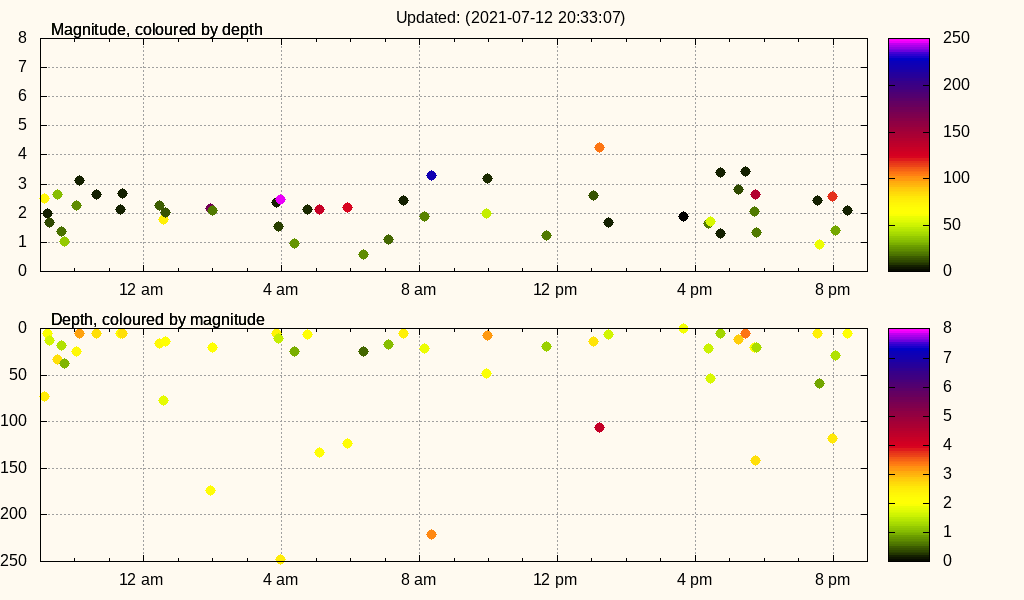
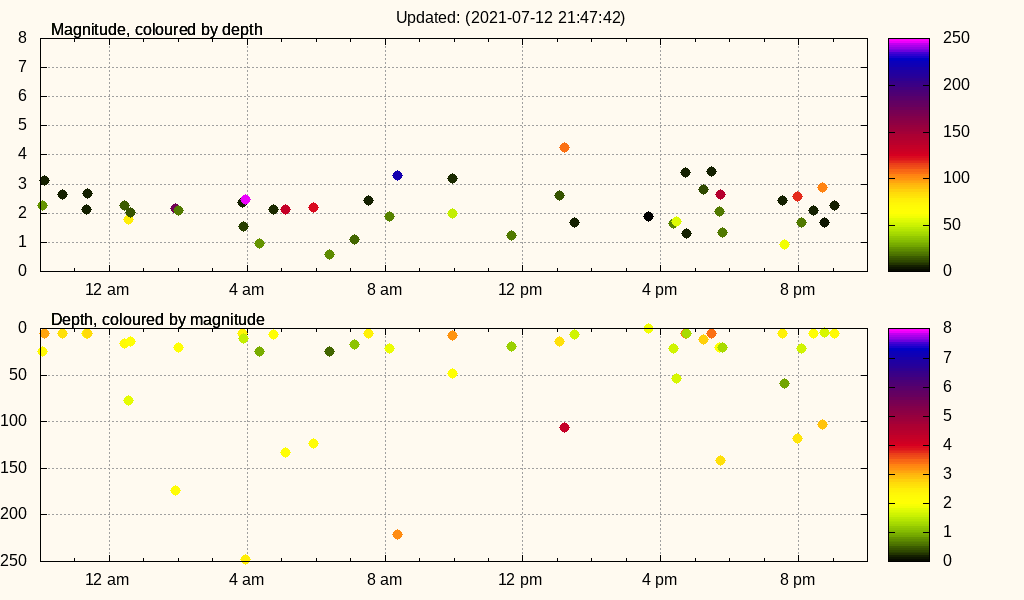
All files

diff --git a/index.html b/index.html
@@ -65,25 +65,49 @@ td.depth { text-align: right; }
 </tr>
 <tr>
 	 <td align="left">&nbsp;</td> 
-	 <td align="left">08:33:06 pm</td> 
-	 <td align="right">7:24</td> 
+	 <td align="left">09:47:41 pm</td> 
+	 <td align="right">45:14</td> 
 	 <td colspan="3">&nbsp;</td> 
 </tr>
 <tr>
 	 <td align="left">2021-07-12</td> 
+	 <td align="left">09:02:27 pm</td> 
+	 <td align="right">17:17</td> 
+	 <td class="magnitude05">2.27</td> 
+	 <td class="depth">5.00</td> 
+	 <td align="right"><a href="http://www.geonet.org.nz/quakes/region/newzealand/2021p519937" title="2021p519937" target="_blank" class="publicid">25 km north-west of Opunake</a></td> 
+</tr>
+<tr>
+	 <td align="left">&nbsp;</td> 
+	 <td align="left">08:45:10 pm</td> 
+	 <td align="right">2:44</td> 
+	 <td class="magnitude04">1.68</td> 
+	 <td class="depth">4.76</td> 
+	 <td align="right"><a href="http://www.geonet.org.nz/quakes/region/newzealand/2021p519904" title="2021p519904" target="_blank" class="publicid">5 km north-east of Lower Hutt</a></td> 
+</tr>
+<tr>
+	 <td align="left">&nbsp;</td> 
+	 <td align="left">08:42:26 pm</td> 
+	 <td align="right">16:44</td> 
+	 <td class="magnitude06">2.90</td> 
+	 <td class="depth">103.49</td> 
+	 <td align="right"><a href="http://www.geonet.org.nz/quakes/region/newzealand/2021p519899" title="2021p519899" target="_blank" class="publicid">30 km north-west of Te Anau</a></td> 
+</tr>
+<tr>
+	 <td align="left">&nbsp;</td> 
 	 <td align="left">08:25:42 pm</td> 
-	 <td align="right">21:19</td> 
+	 <td align="right">21:20</td> 
 	 <td class="magnitude05">2.09</td> 
 	 <td class="depth">4.98</td> 
 	 <td align="right"><a href="http://www.geonet.org.nz/quakes/region/newzealand/2021p519868" title="2021p519868" target="_blank" class="publicid">20 km south of Rotorua</a></td> 
 </tr>
 <tr>
 	 <td align="left">&nbsp;</td> 
-	 <td align="left">08:04:23 pm</td> 
-	 <td align="right">5:36</td> 
-	 <td class="magnitude03">1.40</td> 
-	 <td class="depth">29.06</td> 
-	 <td align="right"><a href="http://www.geonet.org.nz/quakes/region/newzealand/2021p519827" title="2021p519827" target="_blank" class="publicid">20 km north-west of Ohakune</a></td> 
+	 <td align="left">08:04:22 pm</td> 
+	 <td align="right">5:35</td> 
+	 <td class="magnitude04">1.67</td> 
+	 <td class="depth">21.17</td> 
+	 <td align="right"><a href="http://www.geonet.org.nz/quakes/region/newzealand/2021p519827" title="2021p519827" target="_blank" class="publicid">30 km north-west of Ohakune</a></td> 
 </tr>
 <tr>
 	 <td align="left">&nbsp;</td> 
@@ -408,58 +432,10 @@ td.depth { text-align: right; }
 <tr>
 	 <td align="left">&nbsp;</td> 
 	 <td align="left">10:03:11 pm</td> 
-	 <td align="right">21:51</td> 
+	 <td align="right">0</td> 
 	 <td class="magnitude05">2.28</td> 
 	 <td class="depth">24.56</td> 
 	 <td align="right"><a href="http://www.geonet.org.nz/quakes/region/newzealand/2021p517348" title="2021p517348" target="_blank" class="publicid">30 km north of Kaikoura</a></td> 
-</tr>
-<tr>
-	 <td align="left">&nbsp;</td> 
-	 <td align="left">09:41:20 pm</td> 
-	 <td align="right">4:32</td> 
-	 <td class="magnitude03">1.03</td> 
-	 <td class="depth">37.14</td> 
-	 <td align="right"><a href="http://www.geonet.org.nz/quakes/region/newzealand/2021p517307" title="2021p517307" target="_blank" class="publicid">20 km north-west of Porangahau</a></td> 
-</tr>
-<tr>
-	 <td align="left">&nbsp;</td> 
-	 <td align="left">09:36:48 pm</td> 
-	 <td align="right">7:07</td> 
-	 <td class="magnitude03">1.38</td> 
-	 <td class="depth">18.11</td> 
-	 <td align="right"><a href="http://www.geonet.org.nz/quakes/region/newzealand/2021p517298" title="2021p517298" target="_blank" class="publicid">40 km east of Wairoa</a></td> 
-</tr>
-<tr>
-	 <td align="left">&nbsp;</td> 
-	 <td align="left">09:29:41 pm</td> 
-	 <td align="right">13:28</td> 
-	 <td class="magnitude06">2.66</td> 
-	 <td class="depth">33.00</td> 
-	 <td align="right"><a href="http://www.geonet.org.nz/quakes/region/newzealand/2021p517285" title="2021p517285" target="_blank" class="publicid">135 km east of Te Araroa</a></td> 
-</tr>
-<tr>
-	 <td align="left">&nbsp;</td> 
-	 <td align="left">09:16:13 pm</td> 
-	 <td align="right">4:17</td> 
-	 <td class="magnitude04">1.68</td> 
-	 <td class="depth">12.41</td> 
-	 <td align="right"><a href="http://www.geonet.org.nz/quakes/region/newzealand/2021p517260" title="2021p517260" target="_blank" class="publicid">35 km east of Wairoa</a></td> 
-</tr>
-<tr>
-	 <td align="left">&nbsp;</td> 
-	 <td align="left">09:11:56 pm</td> 
-	 <td align="right">5:05</td> 
-	 <td class="magnitude04">1.99</td> 
-	 <td class="depth">5.00</td> 
-	 <td align="right"><a href="http://www.geonet.org.nz/quakes/region/newzealand/2021p517252" title="2021p517252" target="_blank" class="publicid">25 km south-west of Whakatane</a></td> 
-</tr>
-<tr>
-	 <td align="left">&nbsp;</td> 
-	 <td align="left">09:06:51 pm</td> 
-	 <td align="right">0</td> 
-	 <td class="magnitude05">2.51</td> 
-	 <td class="depth">72.71</td> 
-	 <td align="right"><a href="http://www.geonet.org.nz/quakes/region/newzealand/2021p517242" title="2021p517242" target="_blank" class="publicid">65 km north of French Pass</a></td> 
 </tr>
 </table>
 

diff --git a/x-image.html b/x-image.html
@@ -1,0 +1,58 @@
+<!DOCTYPE html
+	PUBLIC "-//W3C//DTD XHTML 1.0 Transitional//EN"
+	 "http://www.w3.org/TR/xhtml1/DTD/xhtml1-transitional.dtd">
+<html xmlns="http://www.w3.org/1999/xhtml" lang="en-US" xml:lang="en-US">
+<head>
+<title>Images</title>
+<meta name="author" content="Mark Munro" />
+<meta name="description" content="A 24 hour summary of earthquakes in New Zealand" />
+<meta name="keywords" content="'24 earthquake summary' earthquake 'New Zealand' Zealand geology geonet tectonic" />
+<meta name="viewport" content="width=device-width, initial-scale=1.0" />
+<style type="text/css">
+<!--/* <![CDATA[ */
+body { background: #fffaf0; font-family: sans-serif; margin: 0em 3em 0em 1em; padding: 0em 0em 0em 0em; }
+p { text-indent: 1em; }
+p:first-letter { font-family: serif; font-size: 200%; color: darkblue; }
+img { max-width: 100%; width: auto; height: auto; vertical-align: middle; border: 0; }
+table, th, td { font-size: 90%; border-collapse; margin: 0px; padding: 0px; }
+.ack {
+	font-family: serif;
+	font-style: italic;
+	font-size: small;
+	text-align: right;
+	background: lightgrey;
+	color: darkblue;
+	margin: 0px;
+	padding: 0px;
+	border: 2px darkblue inset;
+	float: left;
+}
+td.border { border: 1px #330000 dashed; }
+
+/* ]]> */-->
+</style>
+<meta http-equiv="Content-Type" content="text/html; charset=iso-8859-1" />
+</head>
+<body>
+
+<center>[ &lt;<a href="index.html" title="Main">Main</a>&gt; | &lt;<a href="image.html" title="Here">Re-load</a>&gt; ]</center>
+<dl><dt>All images on this page are in 2 parts:</dt> <dd>The upper part displays magnitude, coloured by depth.</dd> <dd>The lower part displays depth, coloured by magnitude.</dd></dl>
+<table summary="">
+<tr><td class="border"><table summary=""><tr><th align="left">Period</th> <td>:</td> <td>1 week</td></tr> <tr><td>Creation date</td> <td>:</td> <td>2021-07-12 21:47:42</td></tr></table> <a href="x-depth-magnitude-multiplot_week_0001.png" title="1 week" target="_blank"><img src="x-depth-magnitude-multiplot_week_0001.png" alt="1 week" title="1 week" /></a></td></tr>
+<tr><td class="border"><table summary=""><tr><th align="left">Period</th> <td>:</td> <td>2 weeks</td></tr> <tr><td>Creation date</td> <td>:</td> <td>2021-07-12 21:47:42</td></tr></table> <a href="x-depth-magnitude-multiplot_week_0002.png" title="2 weeks" target="_blank"><img src="x-depth-magnitude-multiplot_week_0002.png" alt="2 weeks" title="2 weeks" /></a></td></tr>
+<tr><td class="border"><table summary=""><tr><th align="left">Period</th> <td>:</td> <td>4 weeks</td></tr> <tr><td>Creation date</td> <td>:</td> <td>2021-07-12 21:47:43</td></tr></table> <a href="x-depth-magnitude-multiplot_week_0004.png" title="4 weeks" target="_blank"><img src="x-depth-magnitude-multiplot_week_0004.png" alt="4 weeks" title="4 weeks" /></a></td></tr>
+<tr><td class="border"><table summary=""><tr><th align="left">Period</th> <td>:</td> <td>8 weeks</td></tr> <tr><td>Creation date</td> <td>:</td> <td>2021-06-24 20:48:54</td></tr></table> <a href="x-depth-magnitude-multiplot_week_0008.png" title="8 weeks" target="_blank"><img src="x-depth-magnitude-multiplot_week_0008.png" alt="8 weeks" title="8 weeks" /></a></td></tr>
+<tr><td class="border"><table summary=""><tr><th align="left">Period</th> <td>:</td> <td>16 weeks</td></tr> <tr><td>Creation date</td> <td>:</td> <td>2021-06-24 20:48:54</td></tr></table> <a href="x-depth-magnitude-multiplot_week_0016.png" title="16 weeks" target="_blank"><img src="x-depth-magnitude-multiplot_week_0016.png" alt="16 weeks" title="16 weeks" /></a></td></tr>
+<tr><td class="border"><table summary=""><tr><th align="left">Period</th> <td>:</td> <td>64 weeks</td></tr> <tr><td>Creation date</td> <td>:</td> <td>2021-06-24 20:48:54</td></tr></table> <a href="x-depth-magnitude-multiplot_week_0064.png" title="64 weeks" target="_blank"><img src="x-depth-magnitude-multiplot_week_0064.png" alt="64 weeks" title="64 weeks" /></a></td></tr>
+</table>
+<center>[ &lt;<a href="index.html" title="Main">Main</a>&gt; | &lt;<a href="image.html" title="Here">Re-load</a>&gt; ]</center>
+<div class="ack">
+We acknowledge and thank the New Zealand GeoNet project and
+its sponsors EQC, GNS Science and LINZ for providing the
+data used in this study.
+<a href="http://info.geonet.org.nz/" target="_blank" title="Geonet's site">http://info.geonet.org.nz/</a>
+</div>
+
+
+</body>
+</html>

diff --git a/image.html b/image.html
@@ -1,0 +1,58 @@
+<!DOCTYPE html
+	PUBLIC "-//W3C//DTD XHTML 1.0 Transitional//EN"
+	 "http://www.w3.org/TR/xhtml1/DTD/xhtml1-transitional.dtd">
+<html xmlns="http://www.w3.org/1999/xhtml" lang="en-US" xml:lang="en-US">
+<head>
+<title>Images</title>
+<meta name="author" content="Mark Munro" />
+<meta name="description" content="A 24 hour summary of earthquakes in New Zealand" />
+<meta name="keywords" content="'24 earthquake summary' earthquake 'New Zealand' Zealand geology geonet tectonic" />
+<meta name="viewport" content="width=device-width, initial-scale=1.0" />
+<style type="text/css">
+<!--/* <![CDATA[ */
+body { background: #fffaf0; font-family: sans-serif; margin: 0em 3em 0em 1em; padding: 0em 0em 0em 0em; }
+p { text-indent: 1em; }
+p:first-letter { font-family: serif; font-size: 200%; color: darkblue; }
+img { max-width: 100%; width: auto; height: auto; vertical-align: middle; border: 0; }
+table, th, td { font-size: 90%; border-collapse; margin: 0px; padding: 0px; }
+.ack {
+	font-family: serif;
+	font-style: italic;
+	font-size: small;
+	text-align: right;
+	background: lightgrey;
+	color: darkblue;
+	margin: 0px;
+	padding: 0px;
+	border: 2px darkblue inset;
+	float: left;
+}
+td.border { border: 1px #330000 dashed; }
+
+/* ]]> */-->
+</style>
+<meta http-equiv="Content-Type" content="text/html; charset=iso-8859-1" />
+</head>
+<body>
+
+<center>[ &lt;<a href="index.html" title="Main">Main</a>&gt; | &lt;<a href="image.html" title="Here">Re-load</a>&gt; ]</center>
+<dl><dt>All images on this page are in 2 parts:</dt> <dd>The upper part displays magnitude, coloured by depth.</dd> <dd>The lower part displays depth, coloured by magnitude.</dd></dl>
+<table summary="">
+<tr><td class="border"><table summary=""><tr><th align="left">Period</th> <td>:</td> <td>1 week</td></tr> <tr><td>Creation date</td> <td>:</td> <td>2021-07-12 21:47:42</td></tr></table> <a href="depth-magnitude-multiplot_week_0001.png" title="1 week" target="_blank"><img src="depth-magnitude-multiplot_week_0001.png" alt="1 week" title="1 week" /></a></td></tr>
+<tr><td class="border"><table summary=""><tr><th align="left">Period</th> <td>:</td> <td>2 weeks</td></tr> <tr><td>Creation date</td> <td>:</td> <td>2021-07-12 21:47:42</td></tr></table> <a href="depth-magnitude-multiplot_week_0002.png" title="2 weeks" target="_blank"><img src="depth-magnitude-multiplot_week_0002.png" alt="2 weeks" title="2 weeks" /></a></td></tr>
+<tr><td class="border"><table summary=""><tr><th align="left">Period</th> <td>:</td> <td>4 weeks</td></tr> <tr><td>Creation date</td> <td>:</td> <td>2021-07-12 21:47:43</td></tr></table> <a href="depth-magnitude-multiplot_week_0004.png" title="4 weeks" target="_blank"><img src="depth-magnitude-multiplot_week_0004.png" alt="4 weeks" title="4 weeks" /></a></td></tr>
+<tr><td class="border"><table summary=""><tr><th align="left">Period</th> <td>:</td> <td>8 weeks</td></tr> <tr><td>Creation date</td> <td>:</td> <td>2021-06-24 20:48:54</td></tr></table> <a href="depth-magnitude-multiplot_week_0008.png" title="8 weeks" target="_blank"><img src="depth-magnitude-multiplot_week_0008.png" alt="8 weeks" title="8 weeks" /></a></td></tr>
+<tr><td class="border"><table summary=""><tr><th align="left">Period</th> <td>:</td> <td>16 weeks</td></tr> <tr><td>Creation date</td> <td>:</td> <td>2021-06-24 20:48:54</td></tr></table> <a href="depth-magnitude-multiplot_week_0016.png" title="16 weeks" target="_blank"><img src="depth-magnitude-multiplot_week_0016.png" alt="16 weeks" title="16 weeks" /></a></td></tr>
+<tr><td class="border"><table summary=""><tr><th align="left">Period</th> <td>:</td> <td>64 weeks</td></tr> <tr><td>Creation date</td> <td>:</td> <td>2021-06-24 20:48:54</td></tr></table> <a href="depth-magnitude-multiplot_week_0064.png" title="64 weeks" target="_blank"><img src="depth-magnitude-multiplot_week_0064.png" alt="64 weeks" title="64 weeks" /></a></td></tr>
+</table>
+<center>[ &lt;<a href="index.html" title="Main">Main</a>&gt; | &lt;<a href="image.html" title="Here">Re-load</a>&gt; ]</center>
+<div class="ack">
+We acknowledge and thank the New Zealand GeoNet project and
+its sponsors EQC, GNS Science and LINZ for providing the
+data used in this study.
+<a href="http://info.geonet.org.nz/" target="_blank" title="Geonet's site">http://info.geonet.org.nz/</a>
+</div>
+
+
+</body>
+</html>

diff --git a/README.md b/README.md
@@ -1,0 +1,13 @@
+# Geonet (NZ)
+
+# Why
+This content was created to satisfy an unmet need.
+  * Nowhere on the official geonet site is there a page that lists
+    the details of all recent events.
+  * Other, similar sites, are burdened with java-script and external
+    content such as goggle.
+
+We acknowledge and thank the New Zealand GeoNet project and its sponsors 
+EQC, GNS Science and LINZ for providing the data used in this study.
+
+[info.geonet.org.nz](http://info.geonet.org.nz/)
